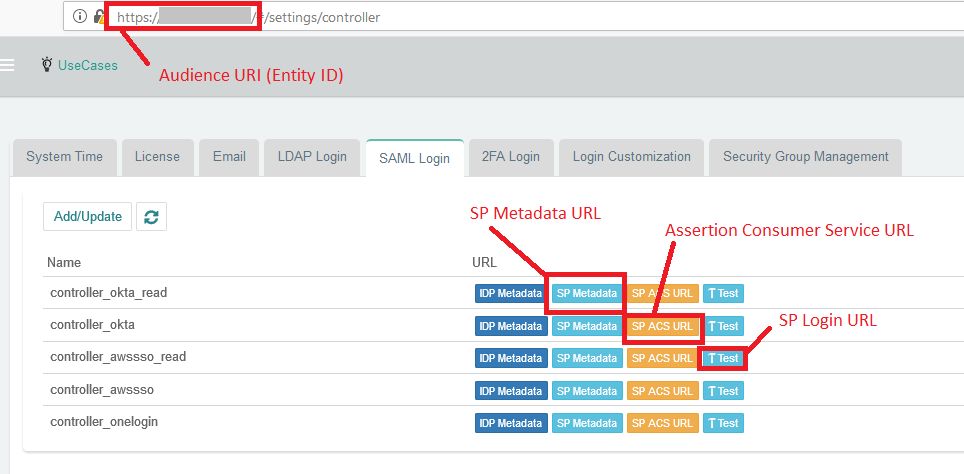
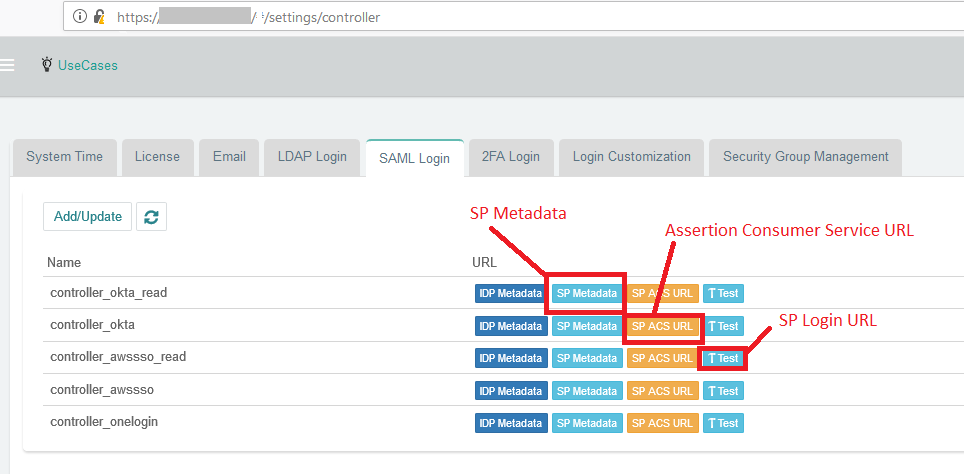
Correct VPN SAML doc

Changed region(s): [[0.0934, 0.0, 0.2801, 0.1477], [0.1556, 0.1477, 0.3734, 0.1772], [0.5913, 0.4135, 0.6224, 0.4726]]

diff --git a/HowTos/VPN_SAML.rst b/HowTos/VPN_SAML.rst
@@ -80,15 +80,21 @@ The configuration consists of 8 parts:
    This guide will use ``aviatrix_saml_controller`` as an example for the endpoint name.
 
 #. Login to the Aviatrix Controller
-#. Click `Settings` in the left navigation menu
-#. Select `Controller`
-#. Click on the `SAML Login` tab
-#. Click `+ Add New` button
+#. Click `OpenVPN®` in the left navigation menu 
+#. Select `Advanced`
+#. Click on the `SAML` tab 
+#. click `+ Add New`
+
 
    |image3-1-1|
 
    |image3-1-2|
 
+
+
+SP Metadata
+   |imagespmetadata| 
+   
    +-------------------------+-------------------------------------------------+
    | Field                   | Value                                           |
    +=========================+=================================================+
@@ -317,11 +323,12 @@ OpenVPN is a registered trademark of OpenVPN Inc.
 
 .. |image3-1-1| image:: SSL_VPN_SAML_media/image3-1-1.png
 
-.. |image3-1-2| image:: SSL_VPN_SAML_media/image3-1-2.png
+.. |image3-1-2| image:: SSL_VPN_SAML_media/image3-1-2.PNG
 
 .. |image3-2| image:: SSL_VPN_SAML_media/image3-2.png
 
 .. |image3-6| image:: SSL_VPN_SAML_media/image3-6.png
 
+c image:: SSL_VPN_SAML_media/SPMetadata.png
 
 .. disqus::
